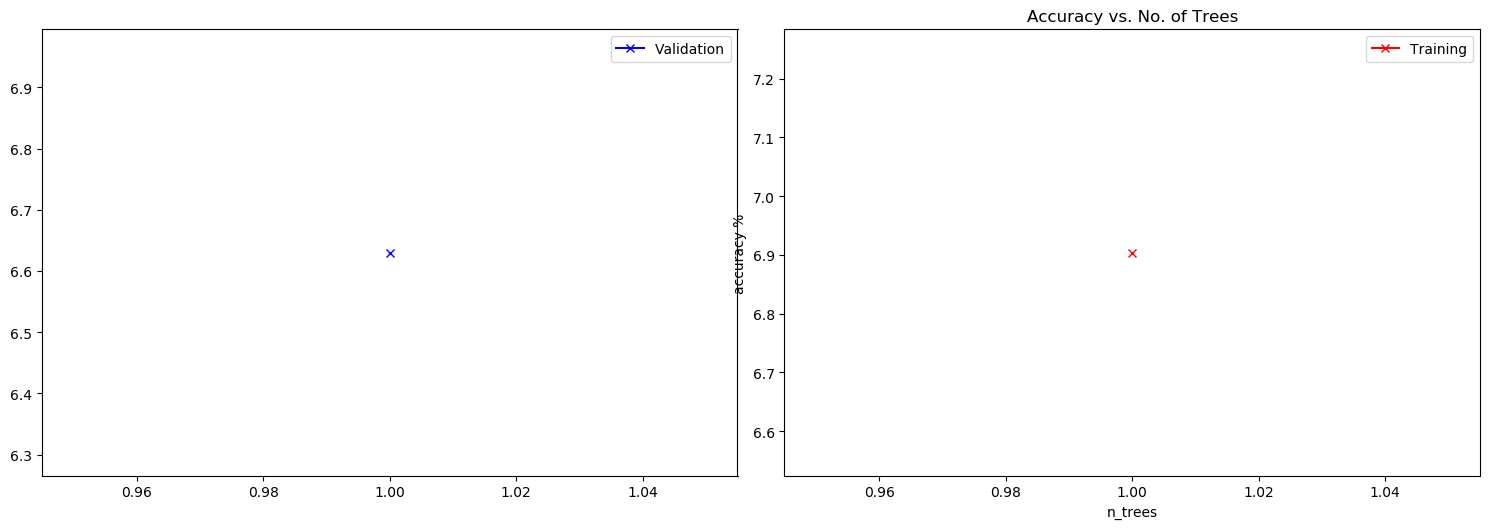
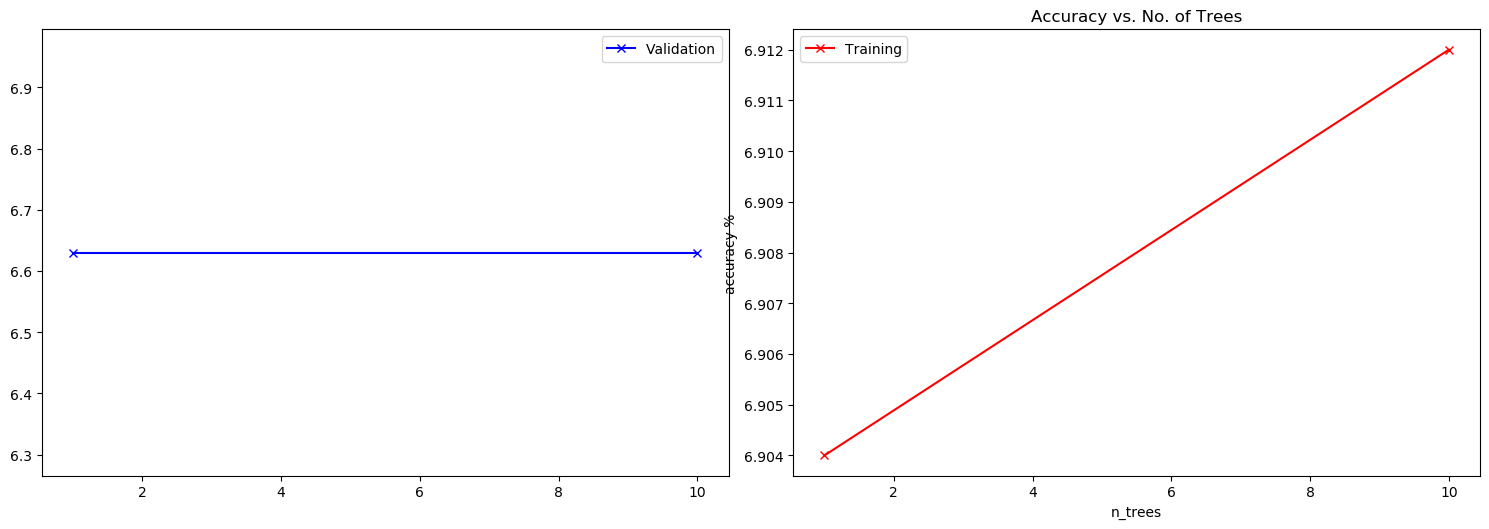
update code and results

diff --git a/RandomForests/RF_Part3.py b/RandomForests/RF_Part3.py
@@ -356,6 +356,13 @@ rf_clf_AE = RandomForestClassifier(n_estimators= n_estimators, criterion='gini',
 orig_train_acc_scores = []
 pca_train_acc_scores = []
 ae_train_acc_scores = []
+
+
+orig_test_acc_scores = []
+pca_test_acc_scores = []
+ae_test_acc_scores = []
+
+
 ests_list = []
 
 #for n_estimators in [1, 10, 50, 100, 200, 500, 1000, 5000]:
@@ -374,14 +381,14 @@ for n_estimators in [1, 10]:
 	rf_clf_AE.fit(X_train_compr, y_train)
 
 
-	orig_train_acc_scores.append(100.0 * rf.score(X_train, y_train))
-	pca_train_acc_scores.append(100.0 * rf.score(X_train_pca, y_train))
-	ae_train_acc_scores.append(100.0 * rf.score(X_train_compr, y_train))
+	orig_train_acc_scores.append(100.0 * rf_clf_Original.score(X_train, y_train))
+	pca_train_acc_scores.append(100.0 * rf_clf_PCA.score(X_train_pca, y_train))
+	ae_train_acc_scores.append(100.0 * rf_clf_AE.score(X_train_compr, y_train))
 
 
-	orig_test_acc_scores.append(100.0 * rf.score(X_test, y_test))
-	pca_test_acc_scores.append(100.0 * rf.score(X_test_pca, y_test))
-	ae_test_acc_scores.append(100.0 * rf.score(X_test_compr, y_test))
+	orig_test_acc_scores.append(100.0 * rf_clf_Original.score(X_test, y_test))
+	pca_test_acc_scores.append(100.0 * rf_clf_PCA.score(X_test_pca, y_test))
+	ae_test_acc_scores.append(100.0 * rf_clf_AE.score(X_test_compr, y_test))
 
 	ests_list.append(n_estimators)
 

diff --git a/RandomForests/RF_Part2.py b/RandomForests/RF_Part2.py
@@ -458,10 +458,7 @@ for n_estimators in [1, 10, 50, 100, 200, 500, 1000, 5000]:
 	plot_accuracies(history)
 	plot_losses(history)
 
-
-
 plot_accuracies(history)
-
 plot_losses(history)
 
 """# **Prediction and testing of MODEL**"""
